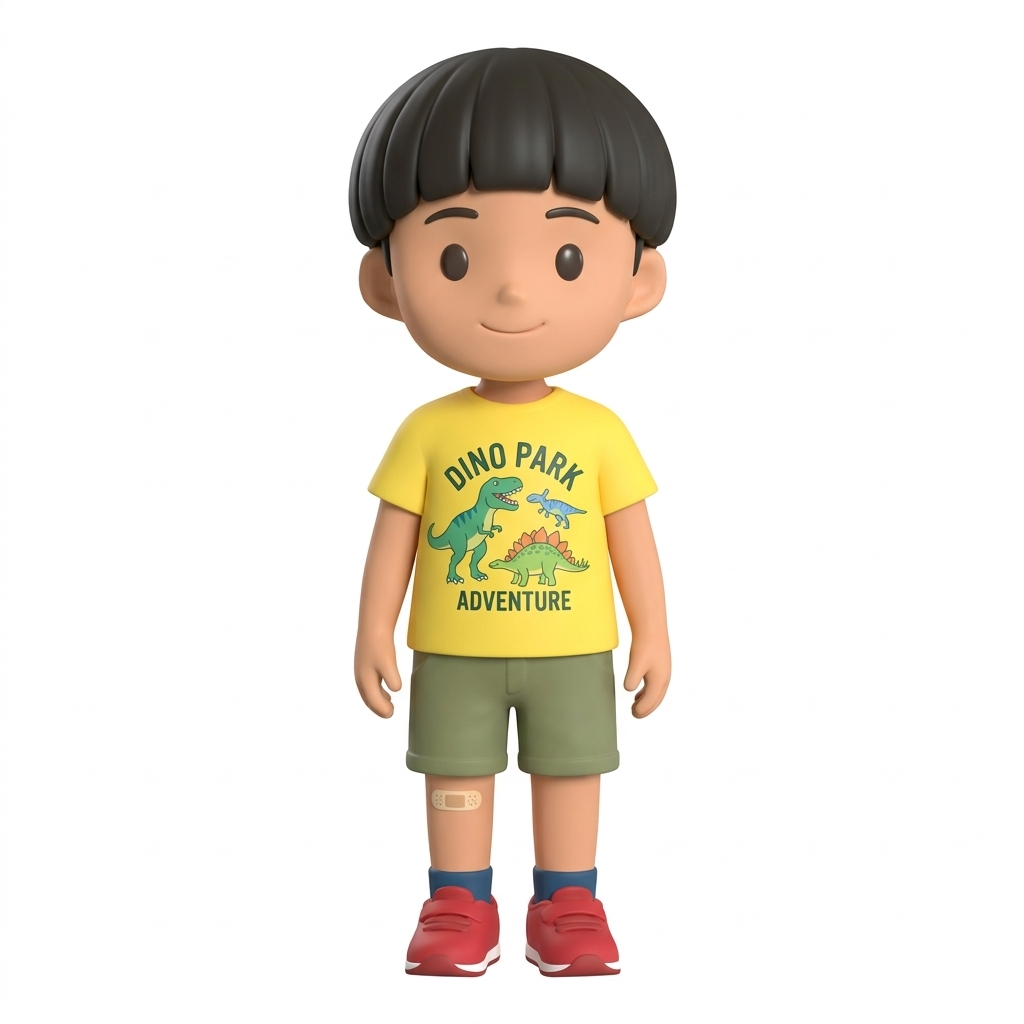
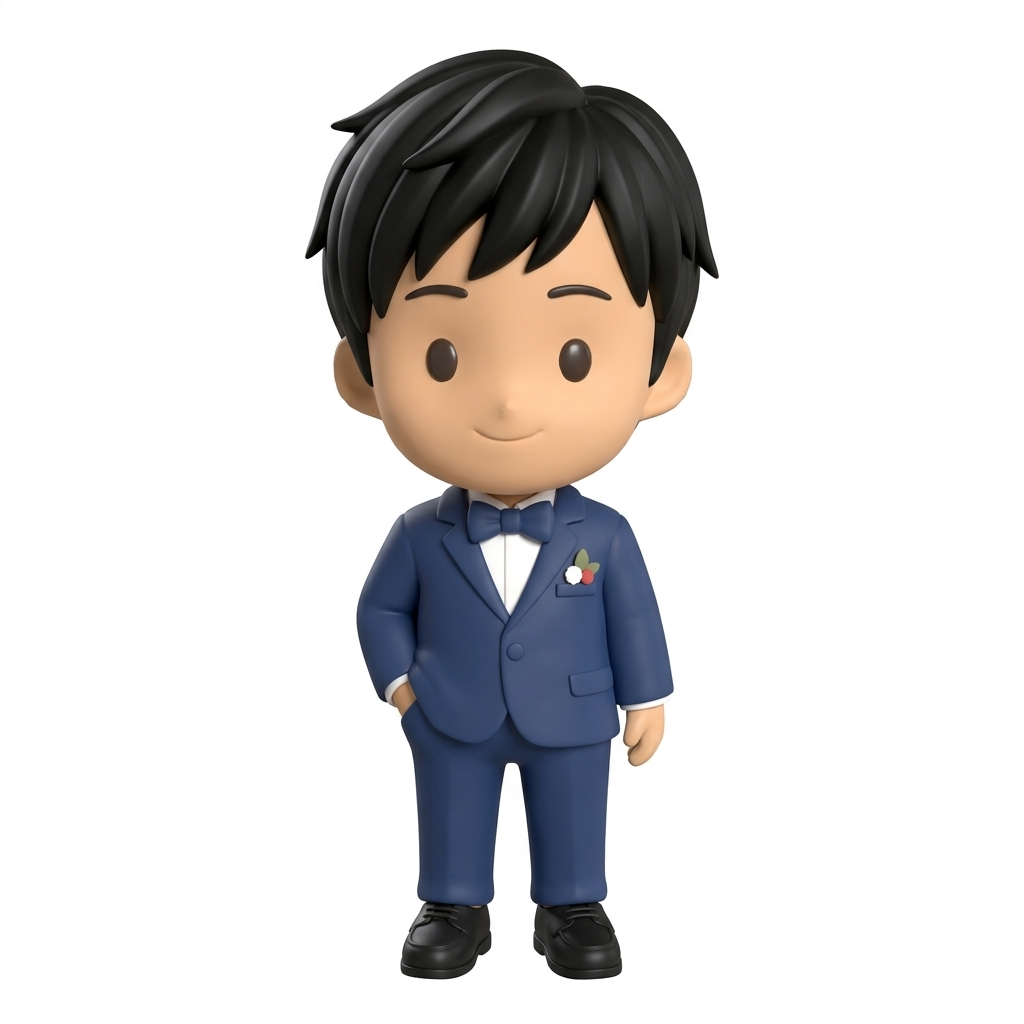
top link

Changed region(s): [[0.2812, 0.0312, 0.7188, 0.9688]]

diff --git a/app/page.tsx b/app/page.tsx
@@ -92,7 +92,9 @@ export default function Home() {
         {/* ===== COMMON HEADER ===== */}
         <div className="flex flex-col items-center pt-12 pb-12 px-3">
           <h1>
-            <img src="/favee_ja.png" alt="Favee" className="h-10 w-auto" />
+            <a href="/" onClick={(e) => { e.preventDefault(); handleReset(); window.scrollTo({ top: 0, behavior: "smooth" }); }} className="block hover:opacity-80 transition-opacity">
+              <img src="/favee_ja.png" alt="Favee" className="h-10 w-auto" />
+            </a>
           </h1>
           <p className="text-[11px] text-muted mt-1.5 font-medium tracking-wide">
             AVATAR GENERATOR
